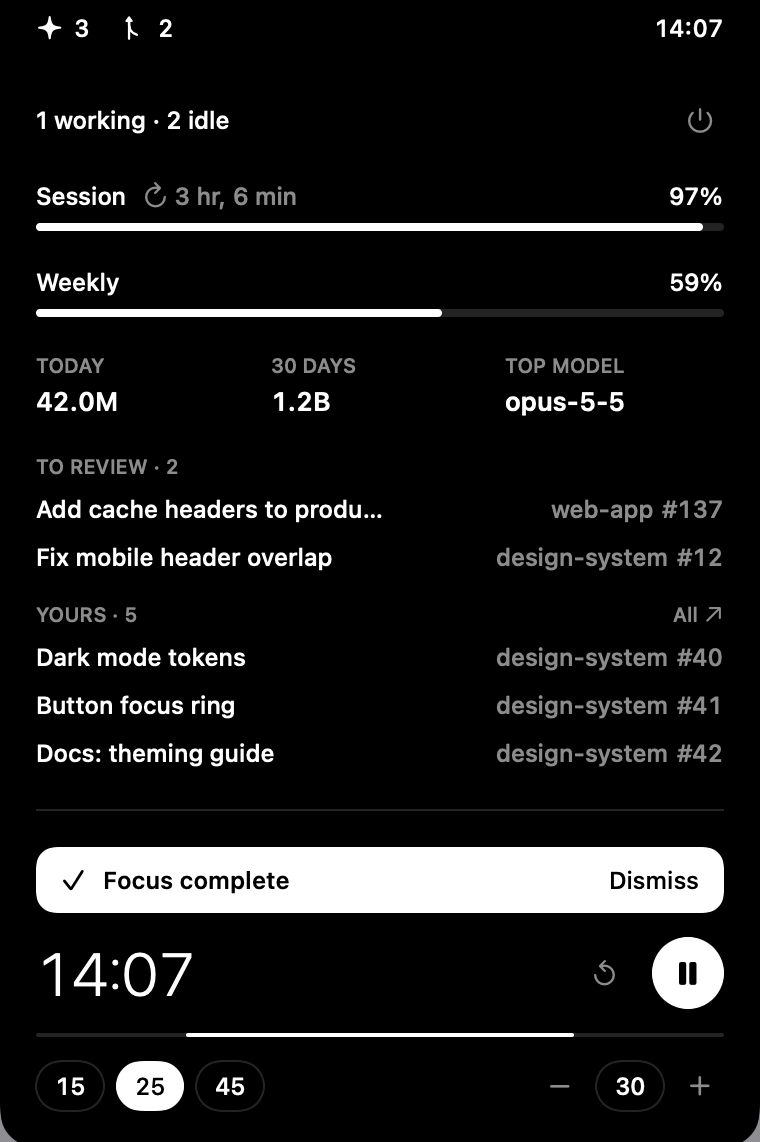
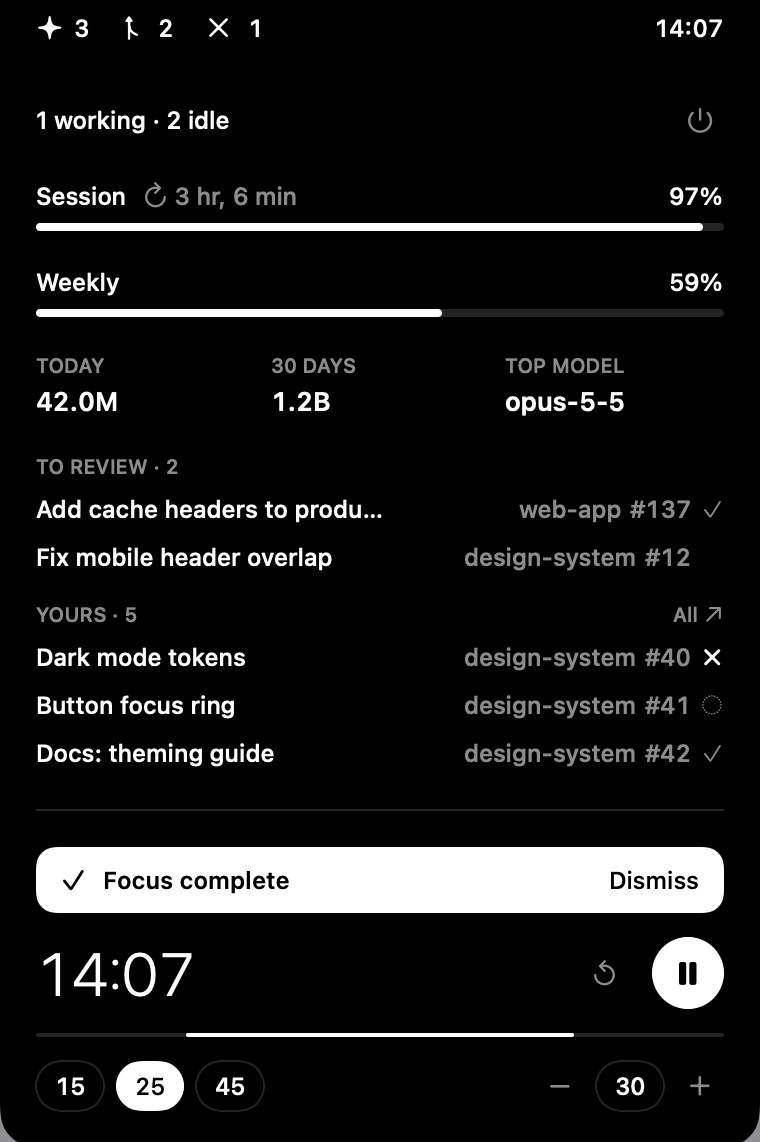
Show CI status on pull requests

diff --git a/main.swift b/main.swift
@@ -44,15 +44,29 @@ func parseDate(_ s: String?) -> Date? {
 // Undocumented endpoint Claude Code itself uses for /usage. May break without notice.
 struct PR: Decodable, Identifiable {
     struct Repo: Decodable { let name: String }
+    struct Commits: Decodable {
+        struct Node: Decodable {
+            struct Commit: Decodable { struct Rollup: Decodable { let state: String }; let statusCheckRollup: Rollup? }
+            let commit: Commit
+        }
+        let nodes: [Node]
+    }
     let number: Int, title: String, url: String, repository: Repo
+    var commits: Commits? = nil
     var id: String { url }
+    /// SUCCESS, FAILURE, ERROR, PENDING, EXPECTED, or nil when the repo has no checks
+    var ci: String? { commits?.nodes.first?.commit.statusCheckRollup?.state }
+    var failing: Bool { ci == "FAILURE" || ci == "ERROR" }
 }
 
-/// Open PRs via the GitHub CLI (uses its existing login). Empty if gh is missing or logged out.
+/// Open PRs + CI state of their last commit, via the GitHub CLI's existing login.
+/// Empty if gh is missing or logged out.
 func fetchPRs(_ filter: String) -> [PR] {
+    struct Response: Decodable { struct D: Decodable { struct S: Decodable { let nodes: [PR] }; let search: S }; let data: D }
     guard let gh = ["/opt/homebrew/bin/gh", "/usr/local/bin/gh"].first(where: FileManager.default.isExecutableFile) else { return [] }
-    let out = sh(gh, ["search", "prs", filter, "--state=open", "--json", "number,title,url,repository", "--limit", "30"])
-    return (try? JSONDecoder().decode([PR].self, from: out)) ?? []
+    let query = "query($q:String!){search(query:$q,type:ISSUE,first:30){nodes{... on PullRequest{number title url repository{name} commits(last:1){nodes{commit{statusCheckRollup{state}}}}}}}}"
+    let out = sh(gh, ["api", "graphql", "-f", "q=is:pr is:open archived:false \(filter)", "-f", "query=\(query)"])
+    return (try? JSONDecoder().decode(Response.self, from: out))?.data.search.nodes ?? []
 }
 
 func fetchLimits() -> Usage? {
@@ -139,9 +153,10 @@ final class Model: ObservableObject {
         pollAgents()
         DispatchQueue.global().async {
             let limits = fetchLimits(), tokens = scanTokens()
-            let review = fetchPRs("--review-requested=@me")
+            let review = fetchPRs("review-requested:@me")
             var seen = Set<String>()
-            let mine = (fetchPRs("--author=@me") + fetchPRs("--assignee=@me")).filter { seen.insert($0.url).inserted }
+            let mine = (fetchPRs("author:@me") + fetchPRs("assignee:@me")).filter { seen.insert($0.url).inserted }
+                .sorted { $0.failing && !$1.failing }   // red builds first, so they make the top 3
             DispatchQueue.main.async {
                 self.tokens = tokens; self.toReview = review; self.mine = mine
                 if let limits { self.limits = limits } // keep last good value on network error
@@ -264,6 +279,28 @@ struct Preset: View {
     }
 }
 
+/// CI of a PR's last commit. Monochrome: failure is the only full-white mark, so it's the one that catches the eye.
+struct CIBadge: View {
+    let state: String?
+    @Environment(\.accessibilityReduceMotion) private var reduceMotion
+    var body: some View {
+        Group {
+            switch state {
+            case "SUCCESS": Image(systemName: "checkmark").foregroundStyle(Tone.dim)
+            case "FAILURE", "ERROR": Image(systemName: "xmark").foregroundStyle(Tone.fg).fontWeight(.bold)
+            case "PENDING", "EXPECTED":
+                Image(systemName: "circle.dotted").foregroundStyle(Tone.dim)
+                    .symbolEffect(.rotate, options: .repeat(.continuous), isActive: !reduceMotion)
+            default: Color.clear
+            }
+        }
+        .font(.system(size: 10))
+        .frame(width: 12)
+        .help(state.map { "CI: \($0.lowercased())" } ?? "No CI")
+        .accessibilityLabel(state.map { "CI \($0.lowercased())" } ?? "No CI")
+    }
+}
+
 struct PRList: View {
     static let shown = 3
     let title: String, prs: [PR], all: String
@@ -287,6 +324,7 @@ struct PRList: View {
                         HStack(spacing: 4) {
                             Text(pr.repository.name).lineLimit(1).truncationMode(.tail)
                             Text("#\(pr.number)").monospacedDigit().layoutPriority(1)
+                            CIBadge(state: pr.ci)
                         }
                         .foregroundStyle(Tone.dim).frame(maxWidth: 150, alignment: .trailing)
                     }
@@ -322,6 +360,11 @@ struct NotchView: View {
                 Label("\(m.toReview.count)", systemImage: "arrow.triangle.pull").monospacedDigit()
                     .padding(.leading, 8)
                     .accessibilityLabel("\(m.toReview.count) pull requests waiting for your review")
+            }
+            if case let failing = m.mine.filter(\.failing).count, failing > 0 {
+                Label("\(failing)", systemImage: "xmark").monospacedDigit()
+                    .padding(.leading, 8)
+                    .accessibilityLabel("\(failing) of your pull requests failing CI")
             }
             Spacer()
             Group {
@@ -493,8 +536,11 @@ final class AppDelegate: NSObject, NSApplicationDelegate {
 if CommandLine.arguments.count > 2, CommandLine.arguments[1] == "--snapshot" { MainActor.assumeIsolated {
     let m = Model()
     let fake = { (n: Int, t: String) in PR(number: n, title: t, url: "u\(n)", repository: .init(name: n > 100 ? "web-app" : "design-system")) }
+    let ci = { (state: String) in PR.Commits(nodes: [.init(commit: .init(statusCheckRollup: .init(state: state)))]) }
     m.toReview = [fake(137, "Add cache headers to product pages"), fake(12, "Fix mobile header overlap")]
+    m.toReview[0].commits = ci("SUCCESS")
     m.mine = ["Dark mode tokens", "Button focus ring", "Docs: theming guide", "Bump deps", "Icon set v2"].enumerated().map { fake($0.offset + 40, $0.element) }
+    m.mine[0].commits = ci("FAILURE"); m.mine[1].commits = ci("PENDING"); m.mine[2].commits = ci("SUCCESS")
     m.agents = 3; m.working = 1; m.pomo = 14 * 60 + 7; m.length = 25 * 60; m.running = true
     m.tokens = (today: 42_000_000, month: 1_200_000_000, top: "claude-opus-5-5")
     let reset = ISO8601DateFormatter().string(from: Date().addingTimeInterval(3 * 3600 + 7 * 60))
